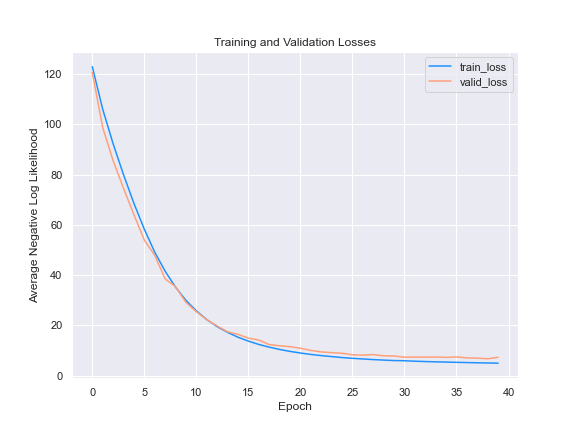
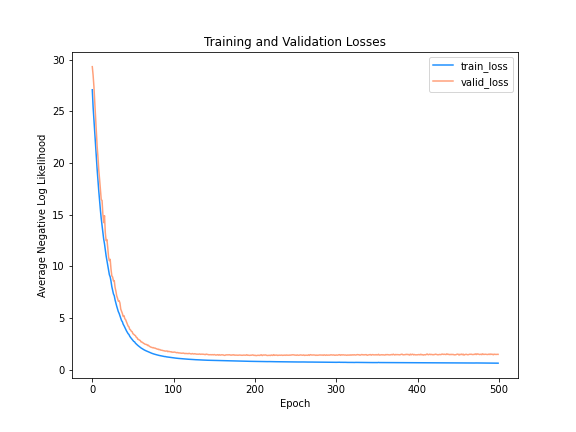
Linux - Adapt param to larger run

diff --git a/train_net.py b/train_net.py
@@ -46,8 +46,9 @@ def train(epoch, model, optimizer, train_loader, train_on_gpu):
                        100. * batch_idx / len(train_loader),
                        loss.item() / len(data)),end='\r')
 
-    print('==========> Epoch: {} ==========> Average loss: {:.4f}'.format(epoch, train_loss / len(train_loader.dataset)))
-    print(f'{timer() - start:.2f} seconds elapsed in epoch.')
+    if epoch % 10 == 0:
+        print('==========> Epoch: {} ==========> Average loss: {:.4f}'.format(epoch, train_loss / len(train_loader.dataset)))
+        print(f'{timer() - start:.2f} seconds elapsed in epoch.')
     return train_loss / len(train_loader.dataset)
 
 def test(epoch, model, optimizer, test_loader, train_on_gpu):
@@ -69,7 +70,8 @@ def test(epoch, model, optimizer, test_loader, train_on_gpu):
             test_loss += model.loss_function(recon_batch, data, mu, logvar).item()
 
         test_loss /= len(test_loader.dataset)
-        print('====> Test set loss: {:.4f}'.format(test_loss))
+        if epoch % 10 == 0:
+            print('====> Test set loss: {:.4f}'.format(test_loss))
 
     return test_loss
 
@@ -123,15 +125,18 @@ def inference_recon(model, inference_loader, num_img, train_on_gpu):
 
         recon, _, _ = model(features)
         # TODO: WARNING, we show only 3 first channel to plot, but find a better option !
-        show(make_grid(features[:num_img,:1,:,:],nrow=int(np.sqrt(num_img))))
-        show(make_grid(recon[:num_img,:1,:,:],nrow=int(np.sqrt(num_img))))
+        show(make_grid(features[:num_img,:1,:,:],nrow=int(np.sqrt(num_img))),train_on_gpu)
+        show(make_grid(recon[:num_img,:1,:,:],nrow=int(np.sqrt(num_img))),train_on_gpu)
 
         #To save the img, use save_image from torch utils
 
 
 
-def show(img):
-    npimg = img.numpy()
+def show(img, train_on_gpu):
+    if train_on_gpu:
+        npimg = img.cpu().numpy()
+    else:
+        npimg = img.numpy()
     plt.figure(figsize=(10,10))
     plt.imshow(np.transpose(npimg, (1,2,0)), interpolation='nearest')
 

diff --git a/VAE_framework.py b/VAE_framework.py
@@ -27,7 +27,7 @@ traindir = datadir + 'train/'
 validdir = datadir + 'val/'
 testdir = datadir + 'test/'
 # Change to fit hardware
-batch_size = 48
+batch_size = 256
 
 # Check if GPU avalaible
 train_on_gpu = cuda.is_available()
@@ -55,12 +55,12 @@ model = VAE(zdim=3)
 if train_on_gpu:
     model.cuda()
 
-print(model)
+#print(model)
 summary(model,input_size=(4,128,128),batch_size=128)
 
 optimizer = optim.Adam(model.parameters(), lr=1e-4)
 
-epochs = 40
+epochs = 500
 
 model, history = train_VAE_model(epochs, model, optimizer, dataloader, train_on_gpu)
 
@@ -69,11 +69,11 @@ plot_train_result(history)
 #SAVE TRAINED MODEL and history
 history_save = 'outputs/plot_history/'+f'loss_evo_toytrain_{datetime.date.today()}.pkl'
 #Save Training history
-#with open(history_save, 'wb') as f:
-#    pkl.dump(history, f, protocol=pkl.HIGHEST_PROTOCOL)
+with open(history_save, 'wb') as f:
+    pkl.dump(history, f, protocol=pkl.HIGHEST_PROTOCOL)
 
-#save_model_path = 'outputs/saves/'+f'VAE_toytrain_{datetime.date.today()}.pth'
-#save_checkpoint(model,save_model_path)
+save_model_path = 'outputs/saved_models/'+f'VAE_toytrain_{datetime.date.today()}.pth'
+save_checkpoint(model,save_model_path)
 
 
 ##########################################################
@@ -92,8 +92,8 @@ plot_train_result(history)
 # %% Load an existing model and continue to train it (or make pred)
 ##########################################################
 
-date = '2020-04-06'
-load_model_path = 'outputs/saves/'+f'VAE_toytrain_{date}.pth'
+date = '2020-04-09'
+load_model_path = 'outputs/saved_models/'+f'VAE_toytrain_{date}.pth'
 
 model = VAE(zdim=3) ## TODO: Modularize that to have the network built inside the load function
 if train_on_gpu:
@@ -102,4 +102,4 @@ model, optimizer = load_checkpoint(model,load_model_path)
 
 # %%
 #SEE THE RECONSTRUCTION FOR RANDOM SAMPLE OF VAL DATASET
-inference_recon(model, dataloader['val'], 16, train_on_gpu)
+inference_recon(model, dataloader['train'], 16, train_on_gpu)
